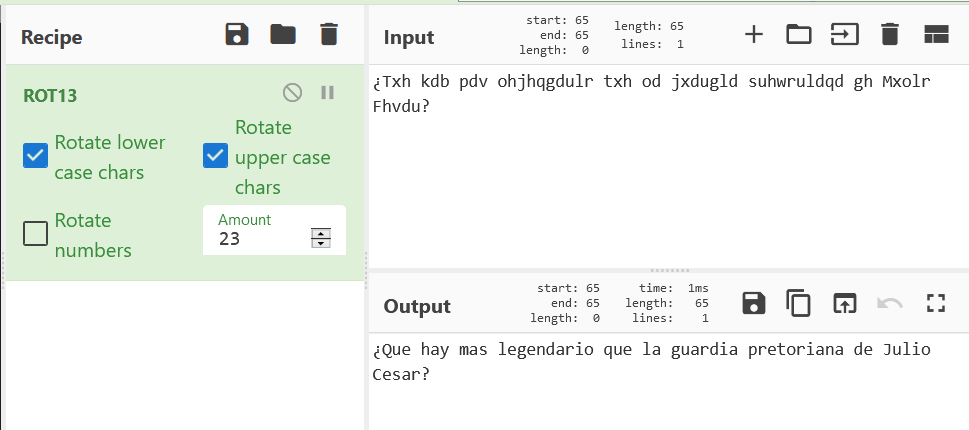
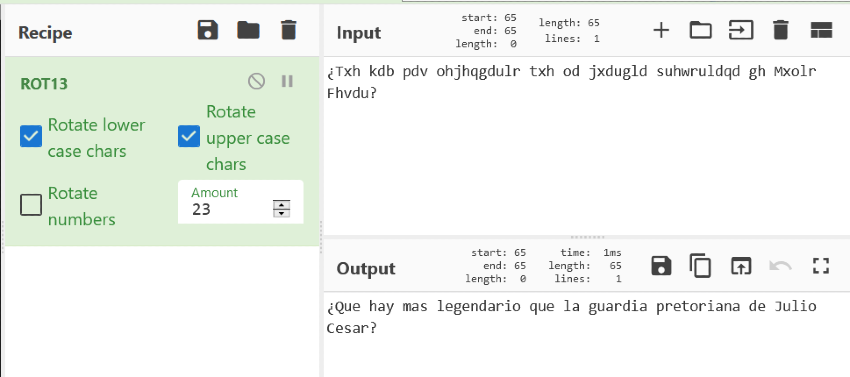
Update

diff --git a/_posts/2021-04-06-FromZeroToLynx-CTF_writeUp-Silver.html b/_posts/2021-04-06-FromZeroToLynx-CTF_writeUp-Silver.html
@@ -7,7 +7,7 @@ background: '/img/posts/06.jpg'
 ---
 
 <h1 class="code-line" data-line-start=1 data-line-end=2 ><a id="FromZeroToLynx__CTF_writeUp__Silver_1"></a>#FromZeroToLynx - CTF writeUp - Silver</h1>
-<p class="has-line-data" data-line-start="3" data-line-end="4"><img src="https://ch4m17ux.github.io/img/posts/ctf-zerotolynx/banner.png" alt="CTF #FromZeroToLynx"></p>
+<div align="center"><p class="has-line-data" data-line-start="3" data-line-end="4"><img src="https://ch4m17ux.github.io/img/posts/ctf-zerotolynx/banner.png" alt="CTF #FromZeroToLynx"></p></div>
 <p class="has-line-data" data-line-start="5" data-line-end="6">En los este (y los siguientes) post quiero traer los retos que se estan desarrollando en el CTF desarollado por <a href="https://www.zerolynx.com/es/home">ZeroLynx</a>, donde se nos presentan retos enmarcados en el evento de ESL España CS:Go.</p>
 <p class="has-line-data" data-line-start="7" data-line-end="8">En esta entrada abordaré los retos del nivel basico o Silver.</p>
 <p class="has-line-data" data-line-start="9" data-line-end="10">Si quieres participar tienes información [ <a href="https://www.fromzerotolynx.gg/">Aquí</a> ]</p>
@@ -46,8 +46,8 @@ materials/maps/granja/cubemapdefault.hdr.vtfPK
 <p class="has-line-data" data-line-start="56" data-line-end="58"><strong><em>OBJETIVO</em></strong>:<br>
 ¿Txh kdb pdv ohjhqgdulr txh od jxdugld suhwruldqd gh Mxolr Fhvdu?</p>
 <p class="has-line-data" data-line-start="59" data-line-end="60">Y nos entregan una imagen:</p>
-<p class="has-line-data" data-line-start="61" data-line-end="62"><img src="https://ch4m17ux.github.io/img/posts/ctf-zerotolynx/pretorianos.png" alt="CTF #FromZeroToLynx"></p>
+<div align="center"><p class="has-line-data" data-line-start="61" data-line-end="62"><img src="https://ch4m17ux.github.io/img/posts/ctf-zerotolynx/pretorianos.png" alt="CTF #FromZeroToLynx"></p></div>
 </blockquote>
 <p class="has-line-data" data-line-start="63" data-line-end="64">Tenemos que identificar que dice el mensaje que para estar codificado de alguna forma, asi que lo pasare por CyberChef y trataremos de obtener el mensaje.</p>
-<p class="has-line-data" data-line-start="65" data-line-end="66"><img src="https://ch4m17ux.github.io/img/posts/ctf-zerotolynx/pretorianos_2.png" alt="CTF #FromZeroToLynx"></p>
+<div align="center"><p class="has-line-data" data-line-start="65" data-line-end="66"><img src="https://ch4m17ux.github.io/img/posts/ctf-zerotolynx/pretorianos_2.png" alt="CTF #FromZeroToLynx"></p></div>
 <p class="has-line-data" data-line-start="67" data-line-end="68">Vemos que se descifra con Rot23 o lo que es lo mismo con cifrado Cesar.</p>
